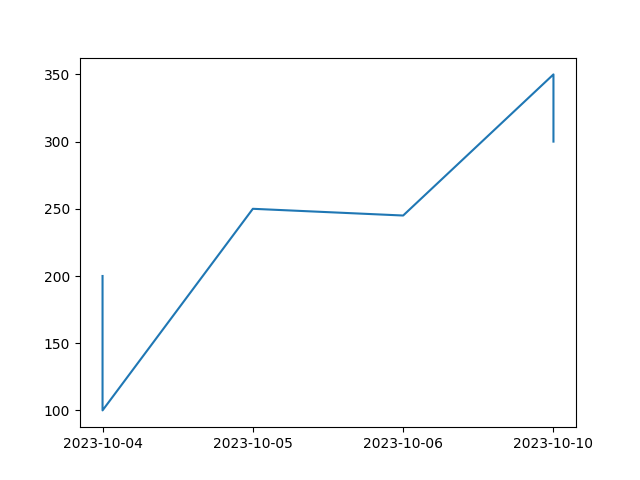
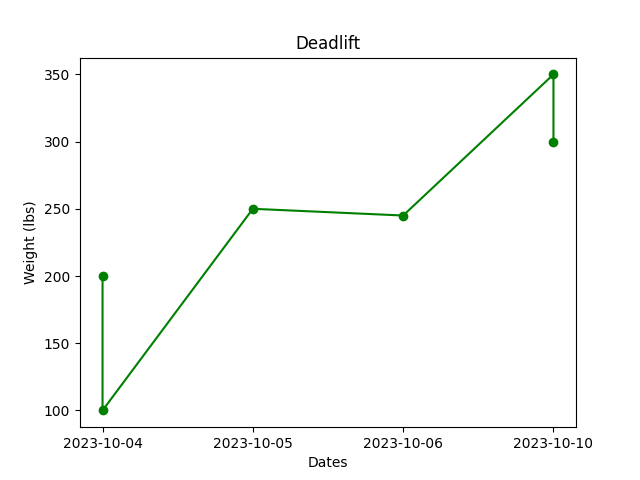
graph.py visuals

diff --git a/Graph.py b/Graph.py
@@ -30,11 +30,18 @@ class Graph:
             dates = np.append(dates, log[3])
             lift = np.append(lift, log[6])
 
-        plt.plot(dates, lift)
+        plt.title(self.ename)
+        plt.xlabel("Dates")
+        plt.ylabel("Weight (lbs)")
+        plt.scatter(dates, lift, color = 'green' )    #Dots
+        plt.plot(dates, lift, 'green')                #Lines
         plt.savefig(file_name)
         plt.clf()               # Clears figure
 
-        return file_name
+        if len(dates) == 0:
+            return "assets/defaultimage.png"
+        else: 
+            return file_name
 
 
     # Private Members
